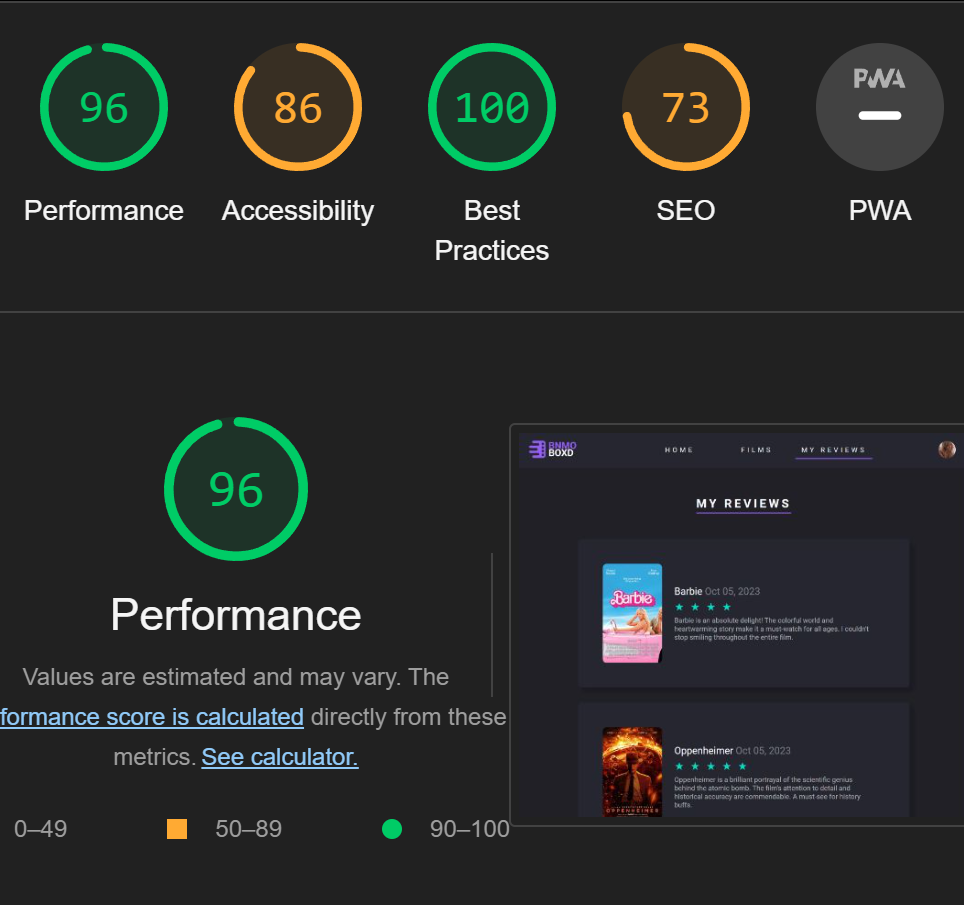
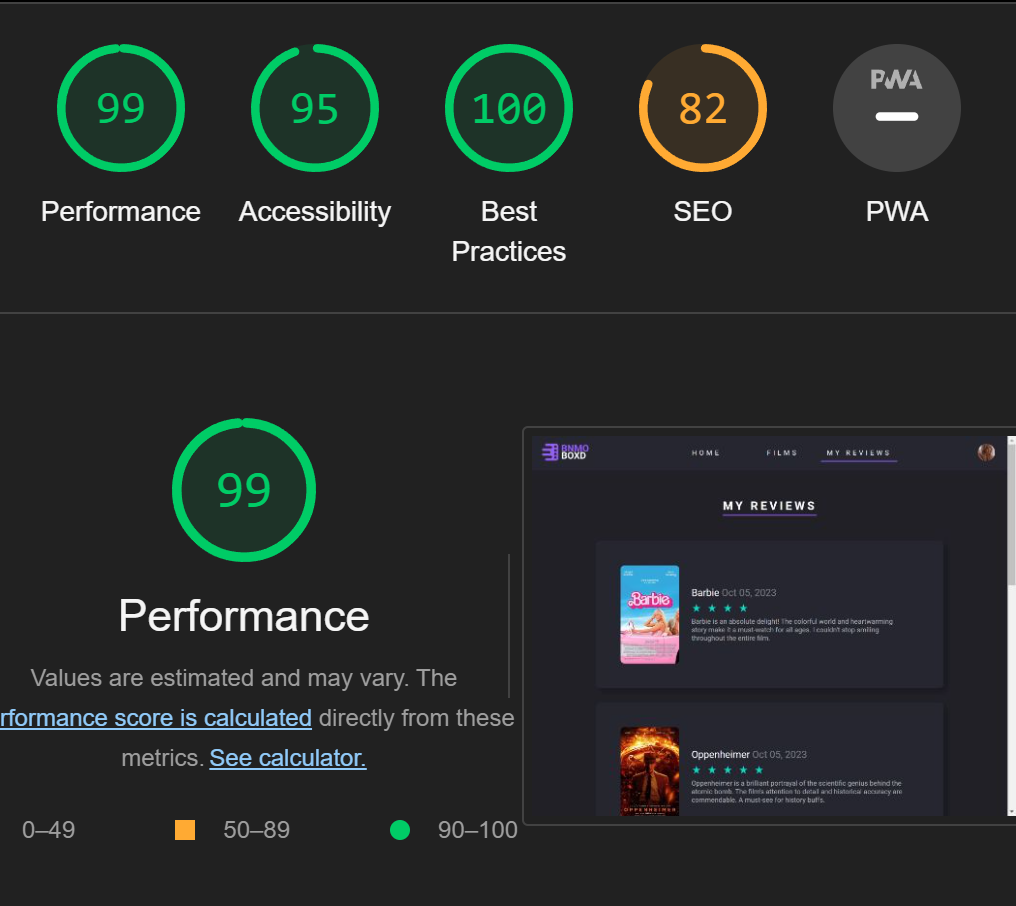
Improve lighthouse score for my review, edit review, and profile page

diff --git a/public/css/reviews.css b/public/css/reviews.css
@@ -80,8 +80,11 @@
 } */
 
 .film-poster-edit {
-    width: 300px;
-    height: 500px;
+    width: 100%;
+    height: 100%;
+    min-width: 100px;
+    max-width: 300px;
+    max-height: 500px;
 }
 
 .review-button-container {

diff --git a/src/views/reviews/edit.php b/src/views/reviews/edit.php
@@ -19,7 +19,7 @@ function showReview($review){
         <div class="edit-review-container">
             <form class="review-upper-section" id="review-form">
                 <input type="hidden" id="film_id" name="film_id" value="$filmId">
-                <img class="film-poster-edit" src="$posterImagePath">
+                <img alt="film poster" class="film-poster-edit" src="$posterImagePath">
                 <div class="review-details">
                     <h6 class="film-title" id="ftr1">$title</h6>
                     <h6>
@@ -32,7 +32,7 @@ function showReview($review){
                         {{star_radio}}
                     </div>
                     <div class="edit-text-box">
-                        <textarea class="edit-textarea" id="review" name="review">$reviewText</textarea>
+                        <textarea class="edit-textarea" id="review" name="review" aria-label="Edit Review">$reviewText</textarea>
                     </div>
                 </div>
             </form>

diff --git a/src/views/profile/index.php b/src/views/profile/index.php
@@ -14,12 +14,12 @@ $html = <<<EOT
     <div class="form-card">
         <h2>Profile</h2>
         <div class="user-profile">
-            <img src="$profilePicturePath">
+            <img alt="Profile picture" src="$profilePicturePath">
         </div>
         <form class="form-container" id="profile-form">
             <div class="form-group">
                 <label for="first_name">First Name</label>
-                <input type="text" id="first-name" name="first_name" formnovalidate value="$firstName">
+                <input type="text" id="first_name" name="first_name" formnovalidate value="$firstName">
                 <label class="form-error" id="first-name-form-error"></label>
             </div>
             <div class="form-group">

diff --git a/src/views/reviews/index.php b/src/views/reviews/index.php
@@ -17,7 +17,7 @@ function reviewList($reviews){
             $starsHtml = str_repeat('<img src="/assets/app/star.png" alt="star" class="stars-img">', $rating);
             $html = <<<EOT
                 <a href="/my-reviews/$id" class="review-container" id="review-container-flex">                                                                                                                                     
-                    <img src="$filmPosterPath" class="poster-image">
+                    <img alt="film poster" src="$filmPosterPath" class="poster-image">
                     <div class="review-details">
                         <h6>
                             $name

diff --git a/src/views/components/review-list.php b/src/views/components/review-list.php
@@ -20,7 +20,7 @@ if(!empty($data['reviews'])){
         $starsHtml = str_repeat('<img src="/assets/app/star.png" alt="star" class="stars-img">', $rating);
         $html = <<<EOT
 <a href="/my-reviews/$id" class="review-container" id="review-container-flex">                                                                                                                                     
-    <img src="$filmPosterPath" class="poster-image">
+    <img alt="film poster" src="$filmPosterPath" class="poster-image">
     <div class="review-details">
         <h6>
             $name
